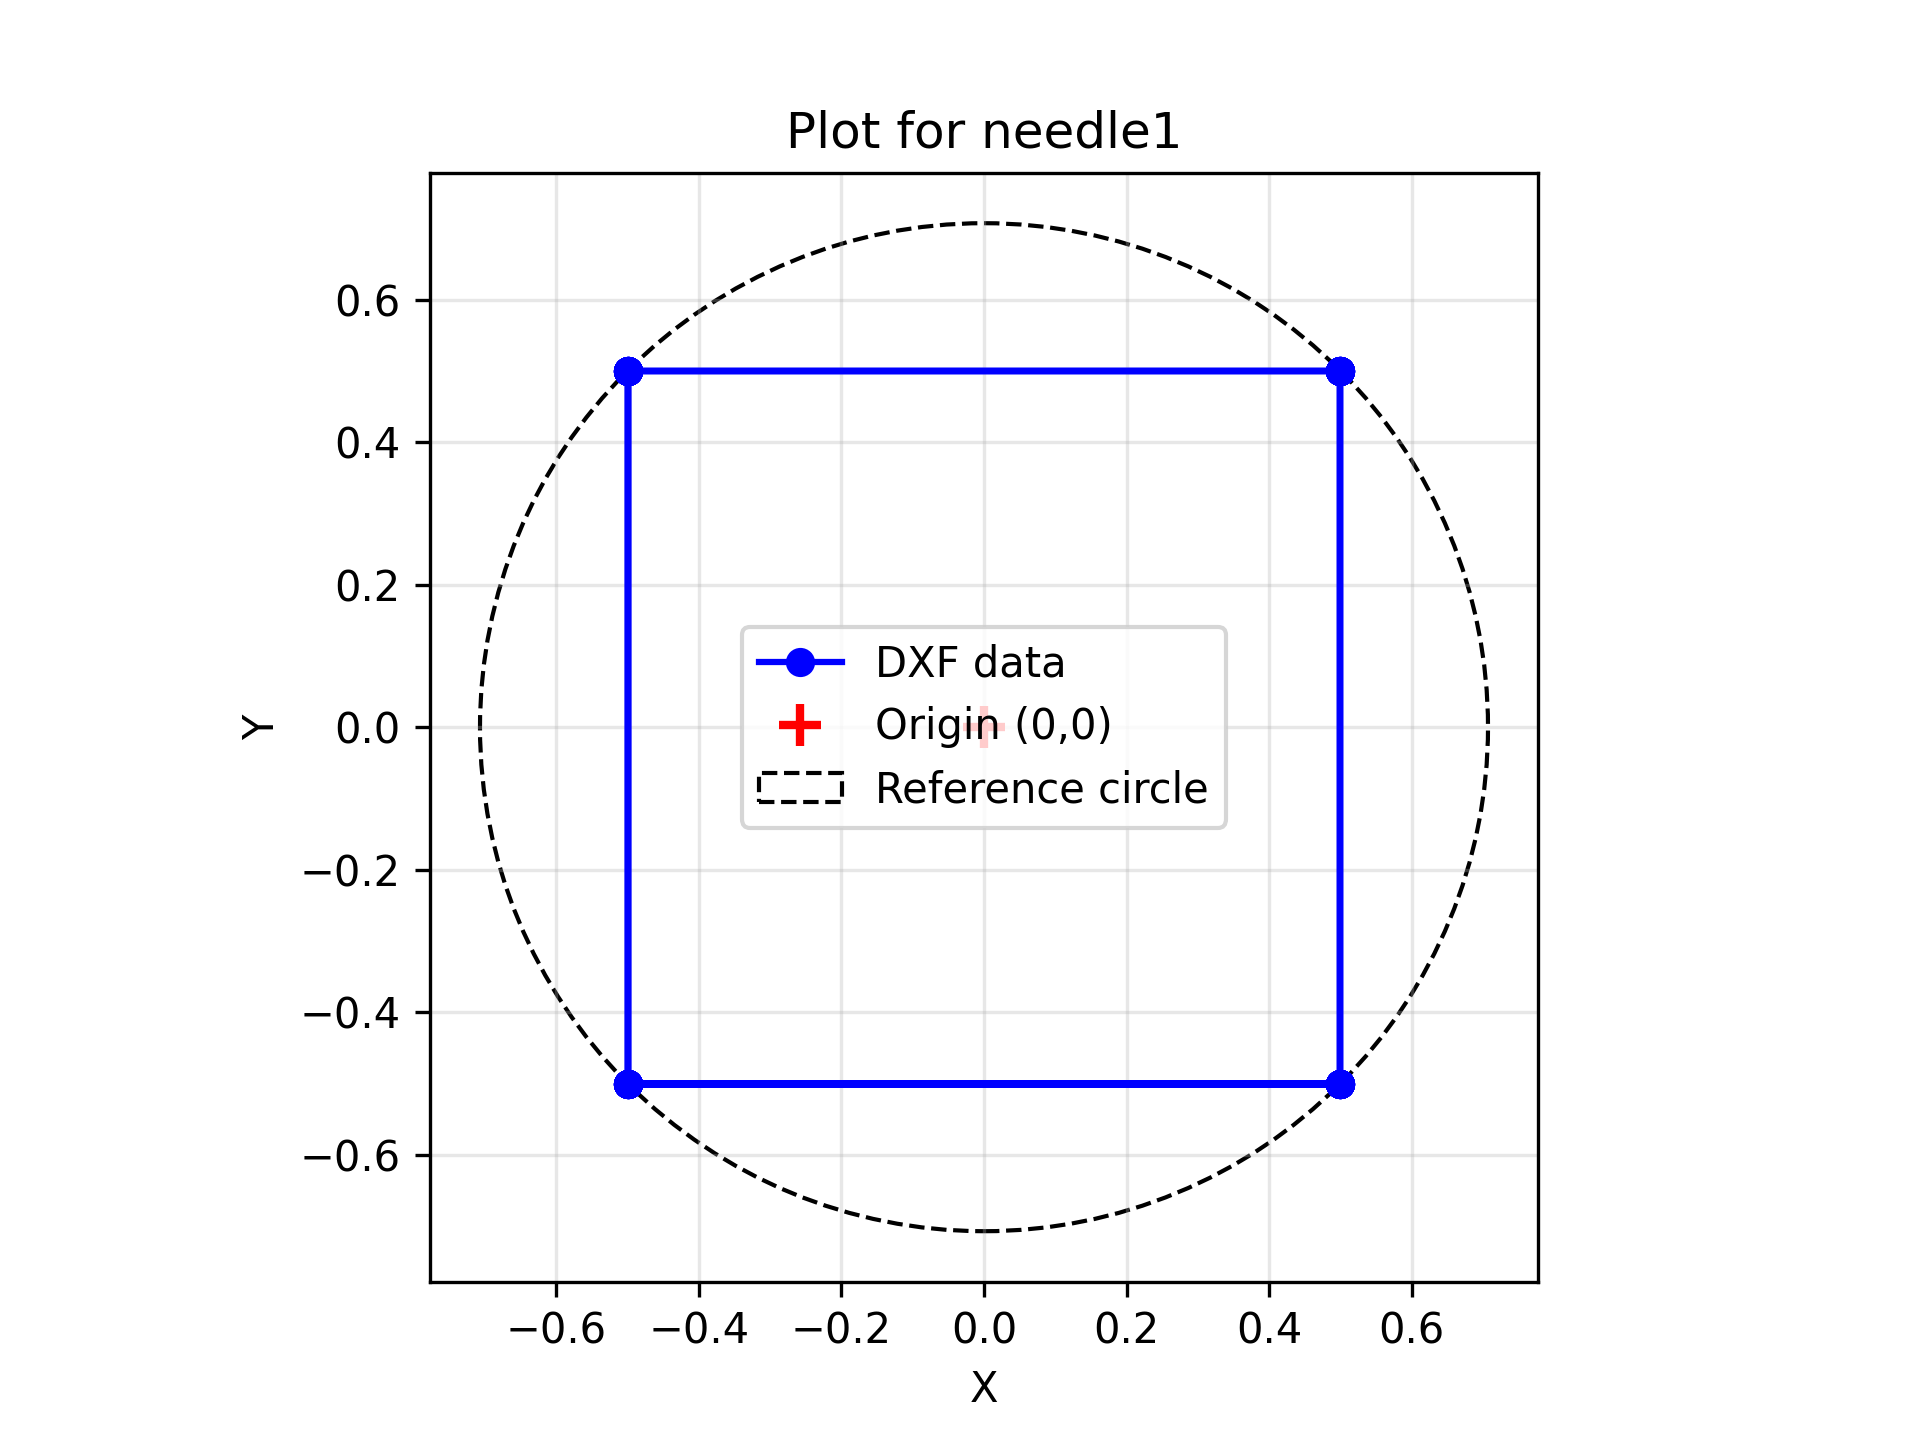
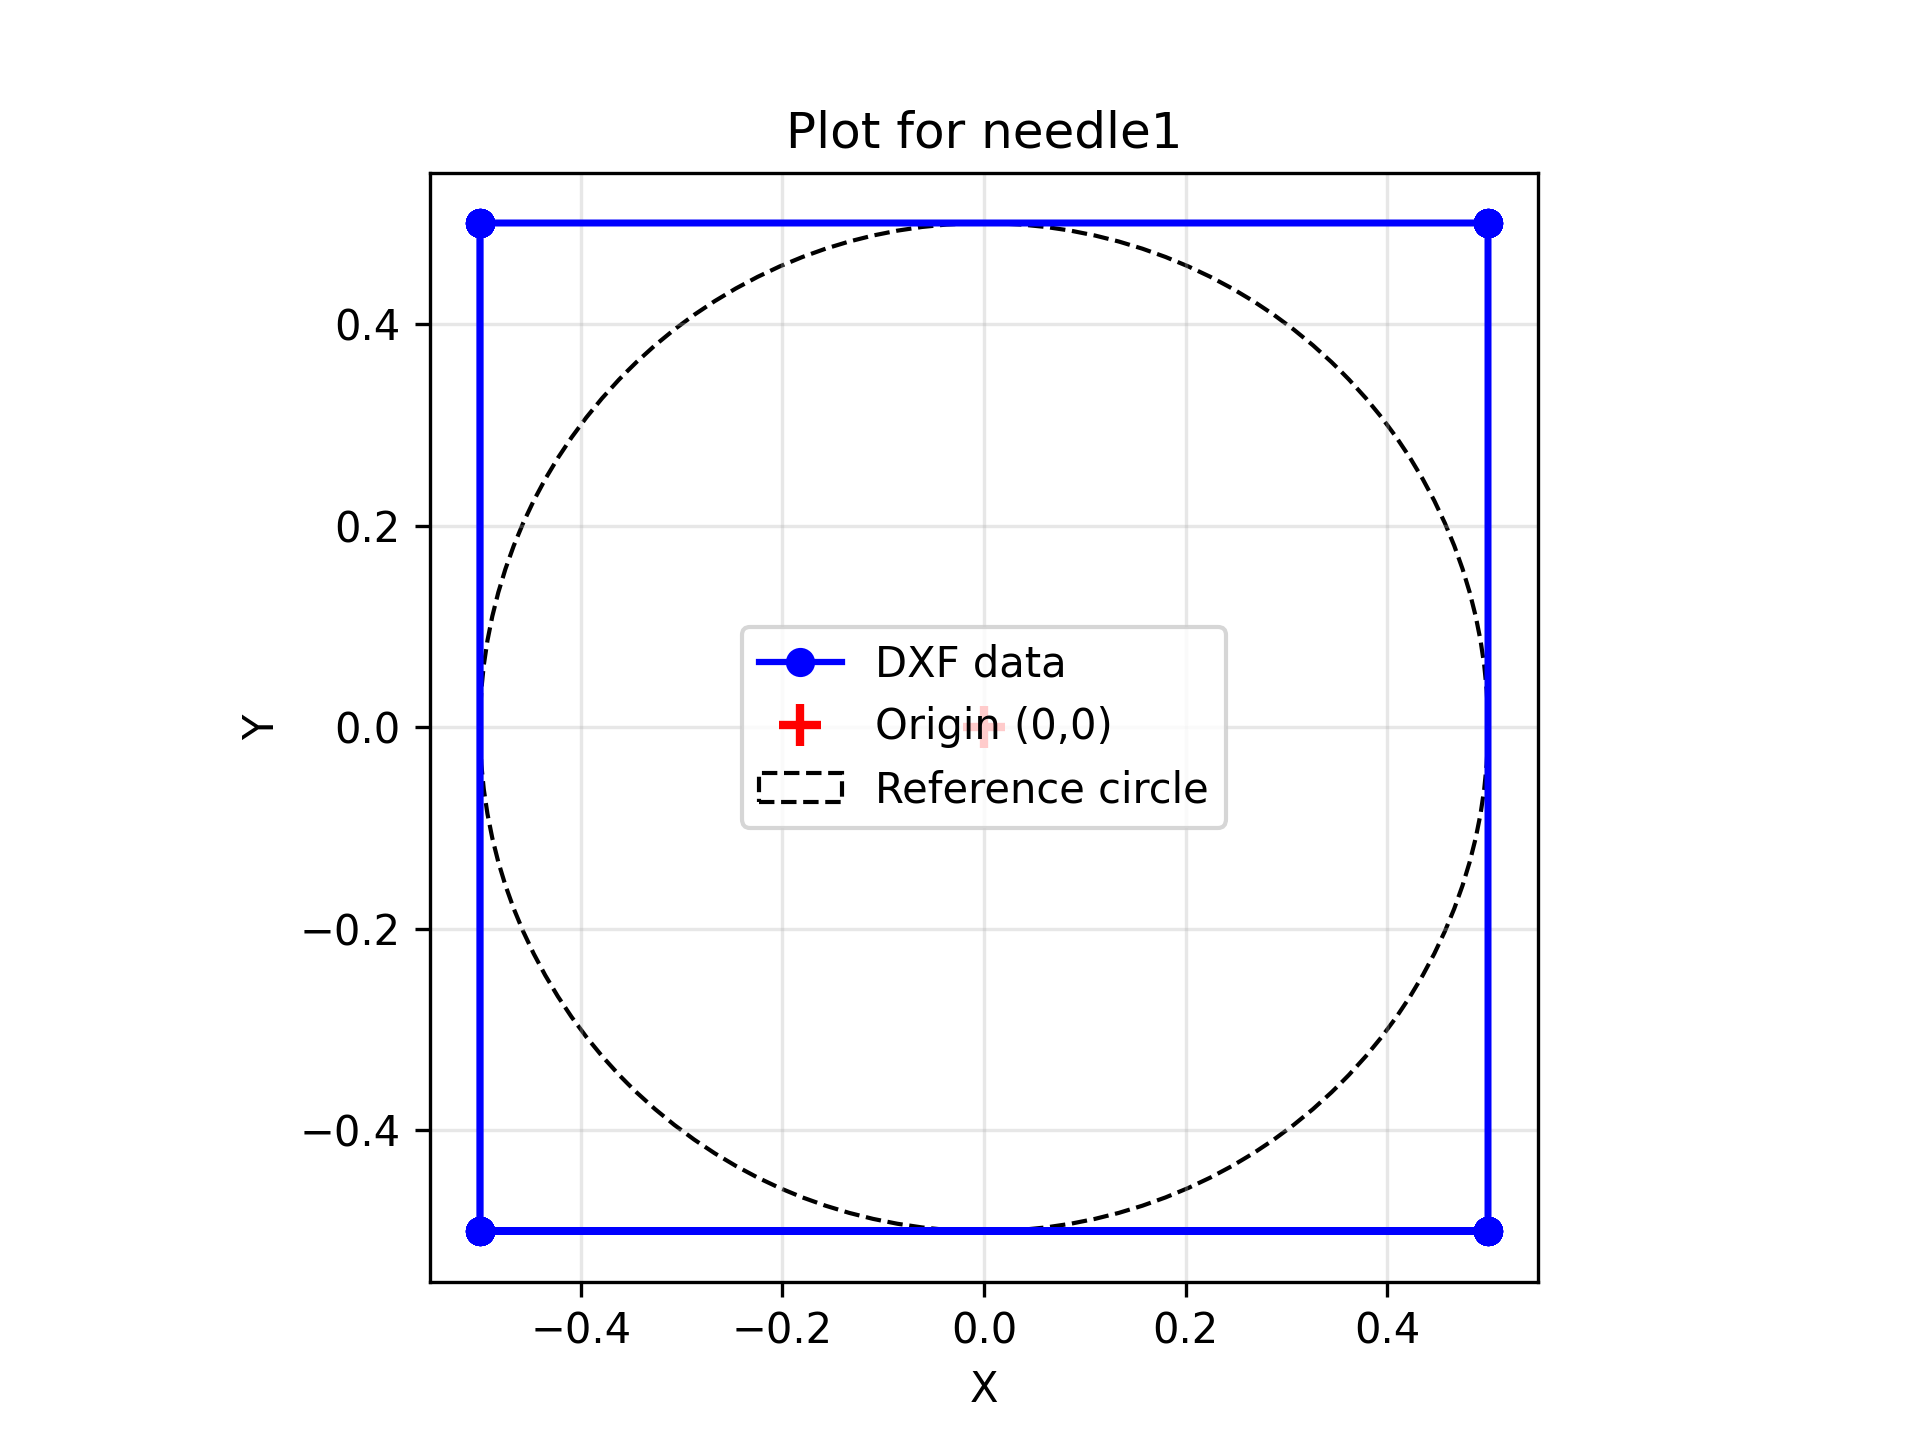
Minor changes.

diff --git a/plotting.py b/plotting.py
@@ -70,9 +70,9 @@ class PLOT:
 
             axes.plot(0, 0, 'r+', markersize=10, markeredgewidth=2, label="Origin (0,0)")
 
-            distances = np.sqrt(coords[:, 0]**2 + coords[:, 1]**2)
-            radius = np.max(distances)
-            circle = plt.Circle( (0, 0), radius , fill = False, linestyle="--", label="Reference circle")
+            # distances = np.sqrt(coords[:, 0]**2 + coords[:, 1]**2)
+            # radius = np.max(distances)
+            circle = plt.Circle( (0, 0), max(coords[:, 0]) , fill = False, linestyle="--", label="Reference circle")
 
             axes.add_patch(circle)
             axes.set_aspect("equal", adjustable="box")
